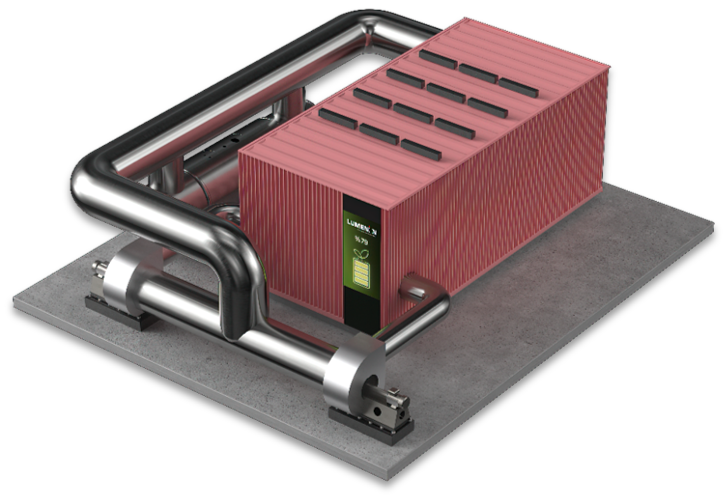
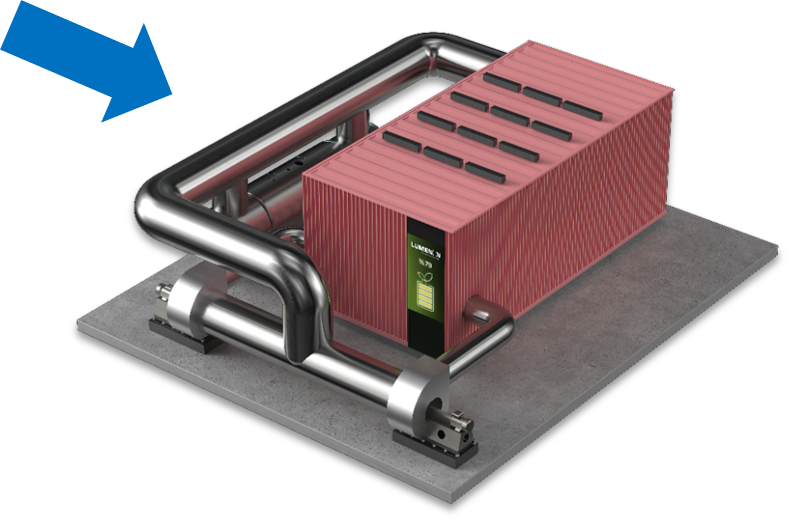
improve scaling and structure of second tab

diff --git a/main.py b/main.py
@@ -352,18 +352,18 @@ energiefluss = html.Div([
             ]),
             dbc.Row([
                 dbc.Col([
-                    html.Div(" ", style={"text-align": "center", "width": "100%", "padding-left": "2rem", "font-weight": "bold", "font-size": "20px"}),
-                    html.Img(src="/assets/Pfeil_blau_kurz.png", style={"width": "100%", "height": "auto", "padding-left": "2rem"})
-                ], className="d-flex flex-column justify-content-center align-items-center", width=2),
+                    #html.Div(" ", style={"text-align": "center", "width": "100%", "padding-left": "2rem", "font-weight": "bold", "font-size": "20px"}),
+                    #html.Img(src="/assets/Pfeil_blau_kurz.png", style={"width": "100%", "height": "auto", "padding-left": "2rem"})
+                ], className="d-flex flex-column justify-content-center align-items-center", width=1),
                 dbc.Col(html.Img(src="/assets/Speicher.png", style={"padding-left": "0rem", "padding-top": "0rem", "width": "100%", "height": "auto"}), width=7),
                 dbc.Col([
                     html.Div(id="waerme_power", style={"text-align": "center", "width": "100%", "padding-right": "3rem", "font-weight": "bold", "font-size": "20px"}),
                     html.Img(src="/assets/Pfeil_rot.png", style={"width": "100%", "height": "auto", "padding-right": "2rem"}),
-                ], className="d-flex flex-column justify-content-center align-items-center", width=3),
+                ], className="d-flex flex-column justify-content-center align-items-center", width=4),
             ]),
         ], className="d-flex flex-column justify-content-center align-items-center", style={"padding-bottom": "3rem"}, width=5),
         dbc.Col([
-            html.Img(src="/assets/Westhof_schmal.png", style={"width": "auto", "height": "100%", "padding-right": "1rem", "padding-left": "0rem"})
+            html.Img(src="/assets/Westhof_schmal.png", style={"width": "100%", "height": "auto", "padding-right": "1rem", "padding-left": "0rem"})
         ], width=3),  # Set the width to 3 columns to match the height of the first column
     ], no_gutters=True),
     grid_kpi_energiefluss_heute

diff --git a/heute.py b/heute.py
@@ -188,7 +188,7 @@ def update_steam_power_heute(n_intervals):
 def random_energiefluss_values(n_intervals):
     power_ee = np.random.randint(500, 700)
     power_bhkw = np.random.randint(8000, 9000)
-    power_netz = np.random.randint(-200, 300)
+    power_netz = np.random.randint(-300, 100)
 
     power_input_total = power_ee + power_bhkw + power_netz
 
